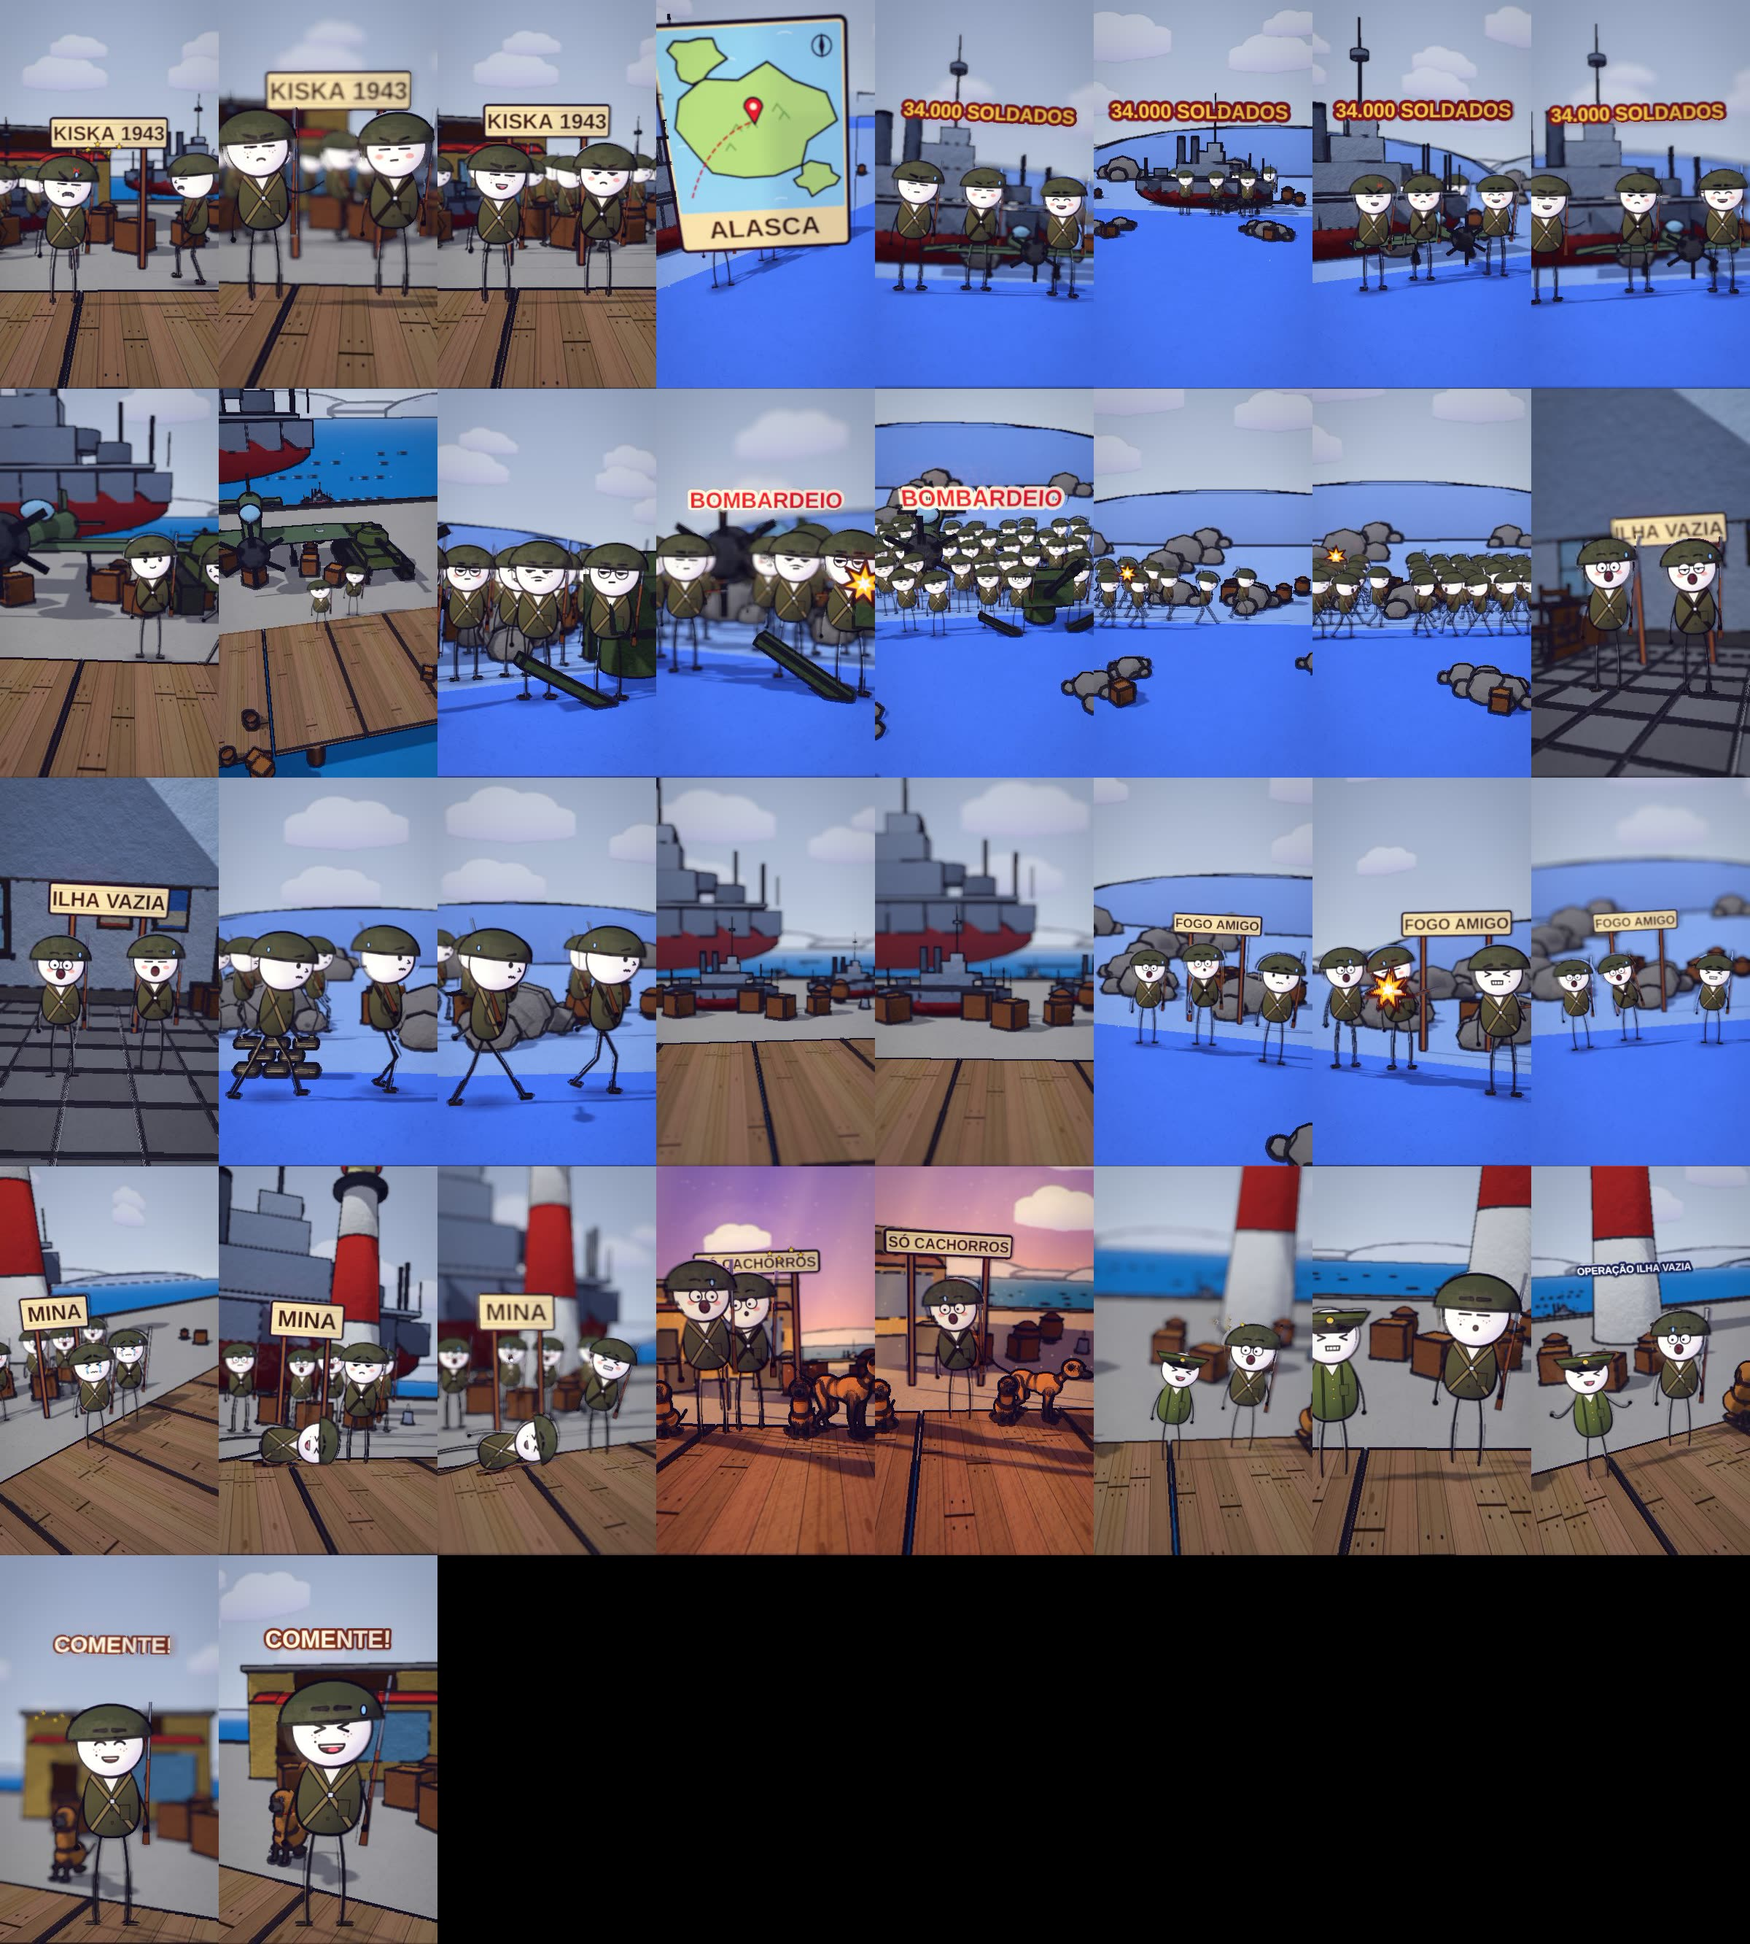
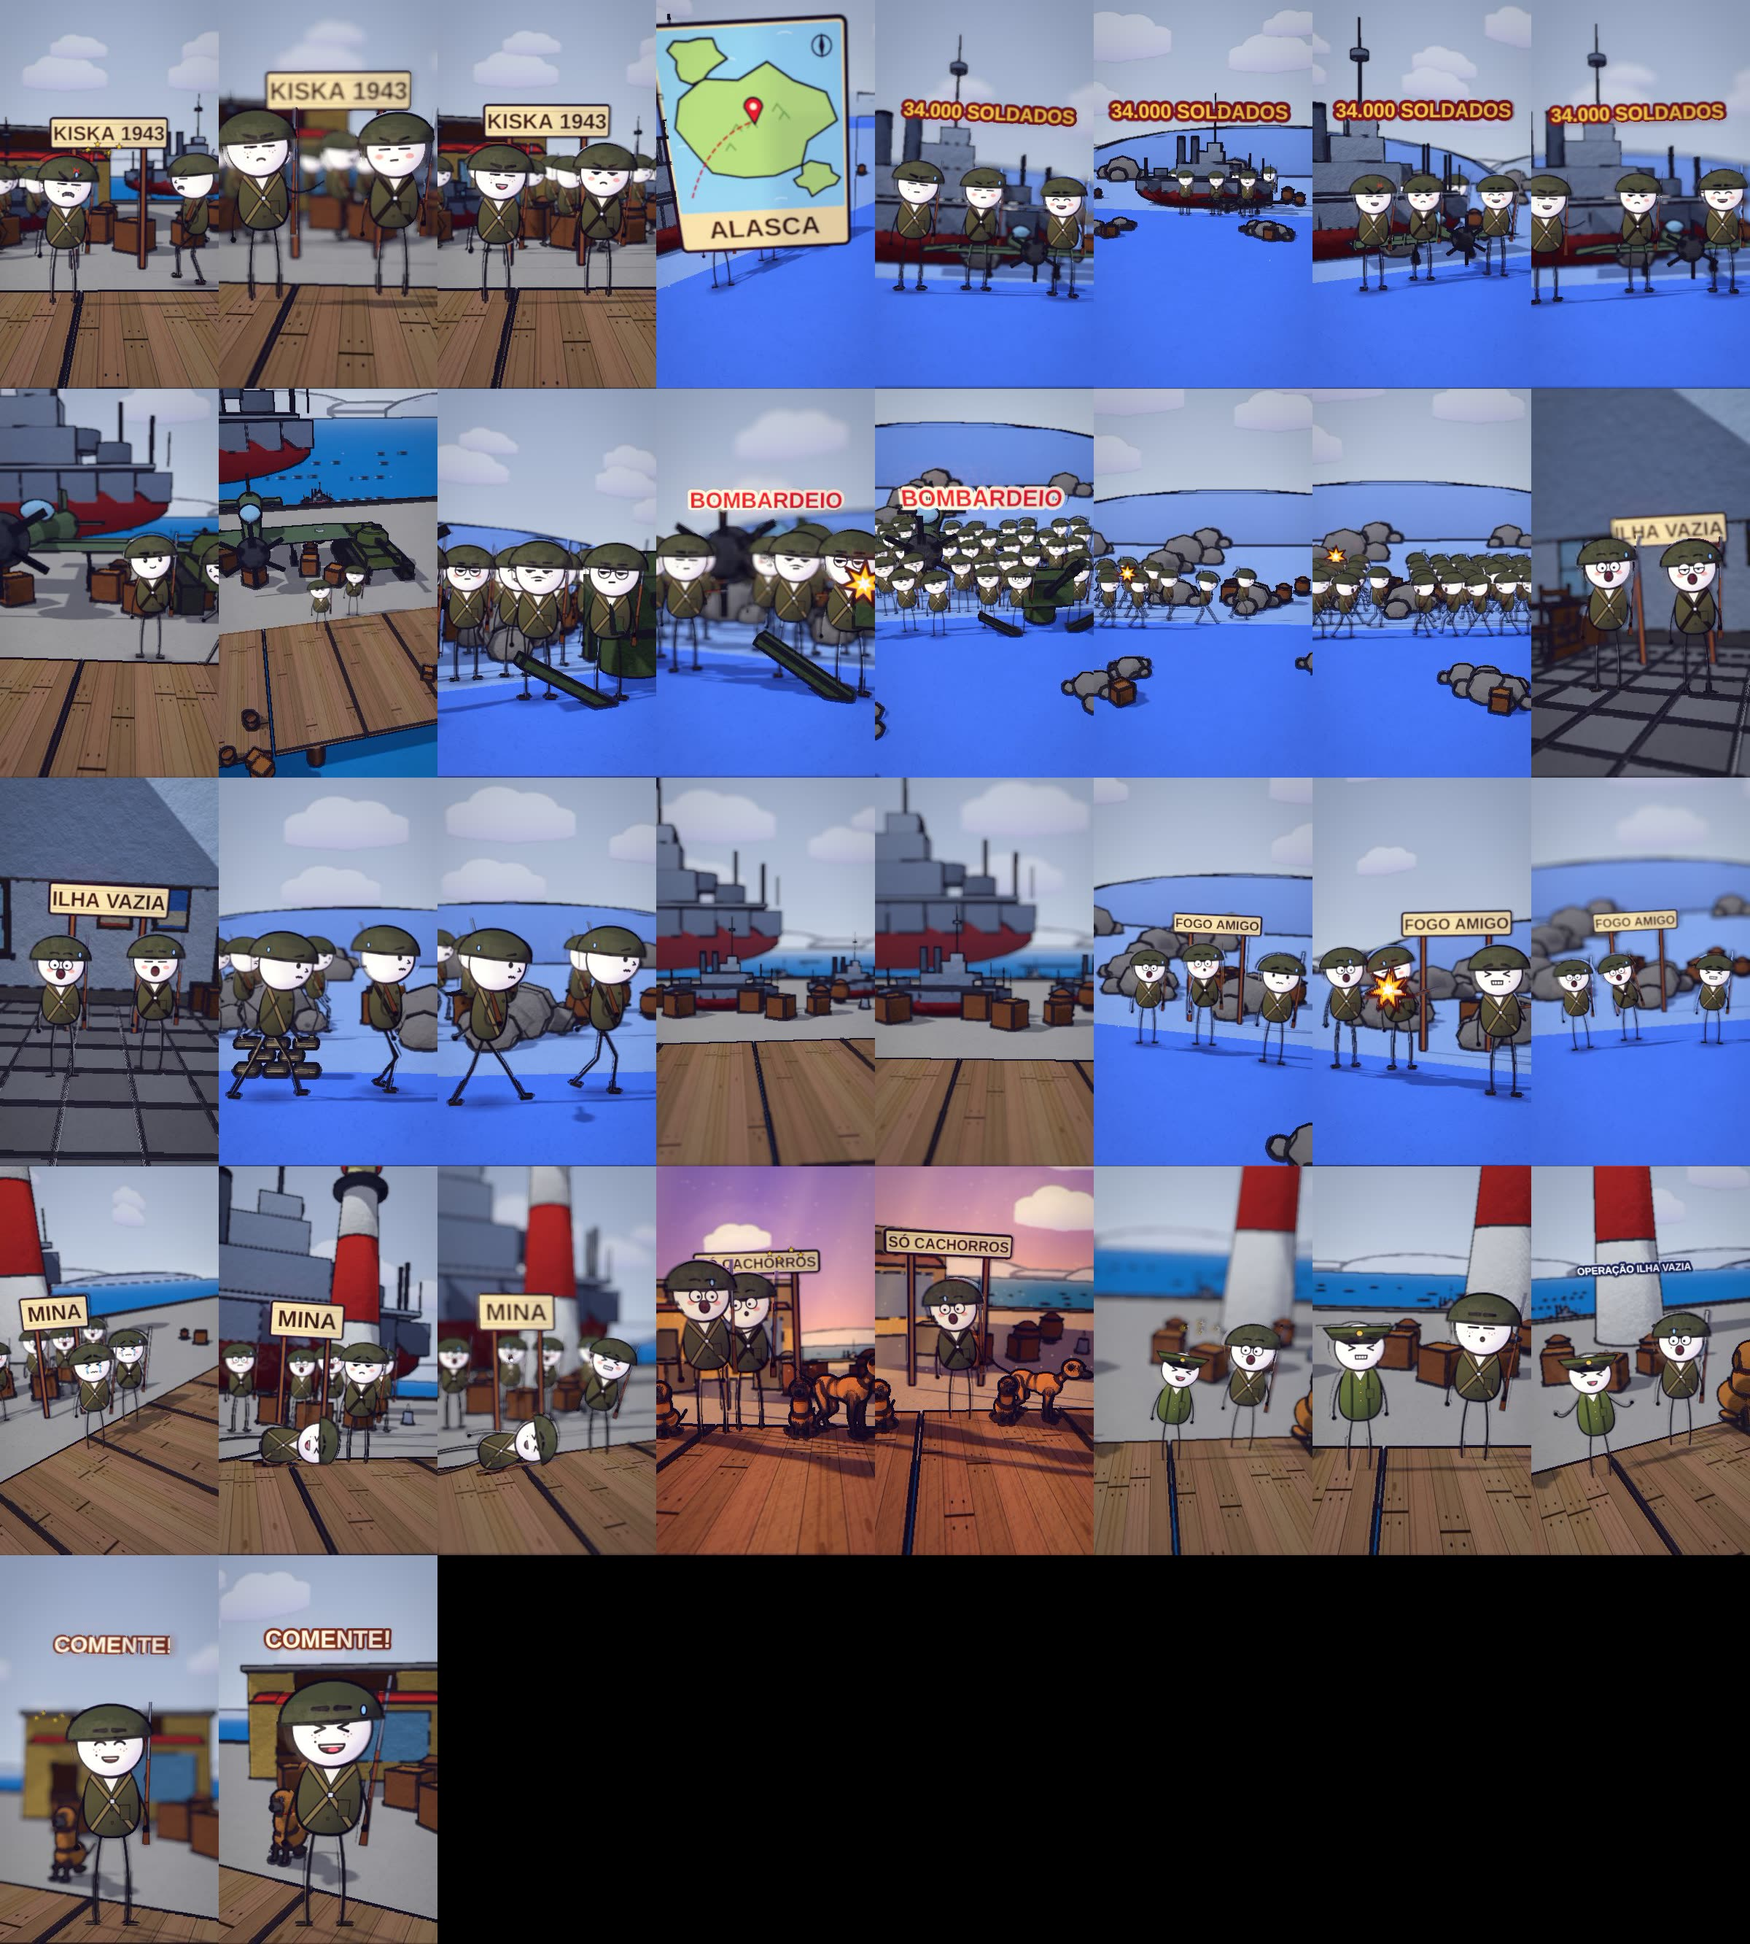
Bolos EP07 (B) v3 conferido e entregue
Claude-Session: https://claude.ai/code/session_01HE8Dy3UcXXZZMLa7uzjNJD

Changed region(s): [[0.7188, 0.5917, 1.0, 0.8098]]

diff --git a/ferramenta-shorts/stories/kiska1943/spec.js b/ferramenta-shorts/stories/kiska1943/spec.js
@@ -23,7 +23,7 @@ const SPEC = {
     S('b8', A[8], A[9] - 1, X_arctic, "overcast", { h: 2.5, d0: 12.882, d1: 11.526, az0: 24, az1: 10, wx: {"fog": 0.7, "wind": 0.3}, punches: [{ f: WS(106), amt: 0.16, dur: 20 }], vary: false, hero: { hero: 'any', frame: 'medium', minH: 0.07, main: 3 }, trans: 'dissolve', shots: [WS(106), WS(106)], actors: [pp(X_arctic, "USA", 0, -2.1, 1.3, "shock", { pose: 'react', inter: { k: 'lunge', a: Math.round(A[8] + (A[9] - 1 - (A[8])) * 0.12), b: Math.round(A[8] + (A[9] - 1 - (A[8])) * 0.82), dir: 1, n: 2, ph: 0 } }), pp(X_arctic, "CAN", 0, 0.0, 1.0, "shock", { pose: 'react', inter: { k: 'lunge', a: Math.round(A[8] + (A[9] - 1 - (A[8])) * 0.2), b: Math.round(A[8] + (A[9] - 1 - (A[8])) * 0.9), dir: -1, n: 2, ph: 3.14 } }), pp(X_arctic, "USA", 2, 2.1, 1.6, "pained", { pose: 'talk' })], fx: [{ k: 'text', a: A[8], b: A[9] - 1, at: [X_arctic + 0.0, DK, -1.3], text: "FOGO AMIGO", s: 2.625, col: '#3a2416', size: 120, board: true }, { k: 'burst', a: A[8] + 30, at: [X_arctic + -2.1, DK + 1.8, 3.2], s: 1.2 }, { k: 'burst', a: A[8] + 60, at: [X_arctic + -2.1, DK + 1.8, 3.2], s: 1.2 }, { k: 'flash', a: WS(106), b: WS(106) + 8, at: [X_arctic + -0.55, DK - 0.55, 1.7], s: 1.6 }, { k: 'puff', a: WS(106) + 3, b: WS(106) + 24, at: [X_arctic + -0.3, DK + 1.9, 1.7], s: 0.5 }, { k: 'flash', a: WS(106), b: WS(106) + 10, at: [X_arctic + -0.55, DK - 0.55, 1.7], s: 1.6 }] }),
     S('b9', A[9], A[10] - 1, X_harbor, "overcast", { h: 2.5, d0: 11.4, d1: 10.2, az0: -32, az1: -18, cx: 0.0, cz: 1.2, punches: [{ f: WS(121), amt: 0.16, dur: 20 }, { f: WS(127), amt: 0.11, dur: 20 }], vary: false, hero: { hero: 'any', frame: 'medium', minH: 0.07, main: 2 }, trans: 'dissolve', shots: [WS(121)], actors: [_MA(_MA(pp(X_harbor, "USA", 0, -1.0, 1.3, "sad", { pose: 'talk', inter: { k: 'shove', a: Math.round(A[9] + (A[10] - 1 - (A[9])) * 0.12), b: Math.round(A[9] + (A[10] - 1 - (A[9])) * 0.82), dir: 1, n: 2, ph: 0 } }), { gests: [[WS(127) - 8, WS(127) + 46, 'punch']] }), { poses: [[WS(119) + 2, A[10] - 1, 'fall']] }), pp(X_harbor, "CAN", 0, 1.0, 1.0, "sad", { pose: 'talk', inter: { k: 'stagger', a: Math.round(A[9] + (A[10] - 1 - (A[9])) * 0.2), b: Math.round(A[9] + (A[10] - 1 - (A[9])) * 0.9), dir: -1, n: 2, ph: 3.14 } }), pp(X_harbor, "USA", 0, -3.85, -3.36, "shock", { look: -0.25, seed: 0 }), pp(X_harbor, "CAN", 1, -1.79, -2.88, "shock", { look: 0.25, seed: 1 }), pp(X_harbor, "USA", 2, 0.27, -3.24, "shock", { look: 0.0, seed: 2 }), pp(X_harbor, "CAN", 3, 1.34, -2.76, "shock", { look: 0.15, seed: 3 }), pp(X_harbor, "USA", 4, 3.4, -3.12, "shock", { look: -0.25, seed: 0 })], props: [{ asset: "buildings/lighthouse", at: [X_harbor + 4.8, -11.0], s: 1.05, ry: -0.35, drop: false }, { asset: "kit/navio_encouracado", at: [X_harbor + -3.0, -24.0], s: 8.44, drop: false }], fx: [{ k: 'text', a: A[9], b: A[10] - 1, at: [X_harbor + 0.0, DK, -1.3], text: "MINA", s: 2.625, col: '#3a2416', size: 120, board: true }, { k: 'burst', a: A[9] + 126, at: [X_harbor + -1.0, DK + 1.8, 3.2], s: 1.2 }, { k: "puff", a: WS(119), b: WS(119) + 28, at: [X_harbor + -2.95, DK + 0.12, -3.16], s: 0.7 }, { k: 'burst', a: WS(121), b: WS(121) + 22, at: [X_harbor + -3.85, DK + 1.8, -1.86], s: 1.2 }, { k: "dust", a: WS(127), b: WS(127) + 28, at: [X_harbor + -2.95, DK + 0.12, -3.16], s: 0.7 }, { k: 'dust', a: WS(119) + 4, b: WS(119) + 30, at: [X_harbor + -0.4, DK + 0.1, 1.6], s: 0.8 }, { k: 'flash', a: WS(121), b: WS(121) + 10, at: [X_harbor + 0.55, DK - 0.55, 1.7], s: 1.6 }, { k: "burst", a: WS(127) + 3, b: WS(127) + 30, at: [X_harbor + -1.0, DK + 1.6, 1.7], s: 0.6 }] }),
     S('b10', A[10], A[11] - 1, X_harbor, "arctic", { h: 1.4, d0: 8.0, d1: 6.0, el: 8, az0: -6, az1: 8, wx: {"fog": 0.7, "wind": 0.3}, vary: false, hero: { hero: 'any', frame: 'medium', minH: 0.07, main: 2 }, trans: 'dissolve', actors: [_MA(_MA(pp(X_harbor, "USA", 1, -1.0, 1.3, "surprised", { pose: 'talk', inter: { k: 'nod', a: Math.round(A[10] + (A[11] - 1 - (A[10])) * 0.12), b: Math.round(A[10] + (A[11] - 1 - (A[10])) * 0.82), dir: 1, n: 2, ph: 0 } }), { gests: [[WS(133) - 8, Math.max(WS(133) + 14, WS(138) - 5), 'point']] }), { move: [[X_harbor + -10.0, 0.7], WS(138) + 2, WS(138) + 70, 'lin'], walk: 'stroll' }), pp(X_harbor, "CAN", 0, 1.0, 1.0, "surprised", { pose: 'talk', inter: { k: 'lean', a: Math.round(A[10] + (A[11] - 1 - (A[10])) * 0.2), b: Math.round(A[10] + (A[11] - 1 - (A[10])) * 0.9), dir: -1, n: 2, ph: 3.14 } }), { animal: "dog", at: [X_harbor + 1.9, 0.8], state: "stand", s: 1.0, flip: true, seed: 1 }], props: [{ asset: "buildings/shop", at: [X_harbor + -4.8, -11.0], s: 1.05, ry: 0.35, drop: false }, { asset: "kit/dog_sit", at: [X_harbor + 1.2, 1.0], s: 1.0, fixo: true, drop: false }, { asset: "kit/dog_sit", at: [X_harbor + -1.4, 1.2], s: 1.0, fixo: true, drop: false }], fx: [{ k: 'stars', a: A[10] + 6, b: A[10] + 40, at: [X_harbor + 1.2, DK + 1.6, 1.5], s: 0.8 }, { k: 'text', a: A[10], b: A[11] - 1, at: [X_harbor + 0.0, DK, -1.3], text: "SÓ CACHORROS", s: 2.625, col: '#3a2416', size: 120, board: true }] }),
-    S('b11', A[11], Math.round(A[11] + (A[12] - 1 + 1 - (A[11])) * 0.36) - 1, X_harbor, "overcast", { h: 2.3, d0: 9.8, d1: 8.8, az0: -26, az1: -12, hero: { hero: 'any', frame: 'medium', minH: 0.07, main: 2 }, trans: 'dissolve', actors: [pp(X_harbor, "OFF", 0, -1.0, 1.3, "pained", { pose: 'talk', inter: { k: 'lunge', a: Math.round(A[11] + (A[12] - 1 - (A[11])) * 0.12), b: Math.round(A[11] + (A[12] - 1 - (A[11])) * 0.82), dir: 1, n: 2, ph: 0 } }), pp(X_harbor, "USA", 0, 1.0, 1.0, "surprised", { pose: 'talk', inter: { k: 'nod', a: Math.round(A[11] + (A[12] - 1 - (A[11])) * 0.2), b: Math.round(A[11] + (A[12] - 1 - (A[11])) * 0.9), dir: -1, n: 2, ph: 3.14 } })], props: [{ asset: "buildings/lighthouse", at: [X_harbor + 4.8, -11.0], s: 1.05, ry: -0.35, drop: false }, { asset: "kit/dog_sit", at: [X_harbor + 3.0, 0.6], s: 1.5, drop: false }, { asset: "kit/dog_sit", at: [X_harbor + -3.0, 0.6], s: 1.2, drop: false }], fx: [{ k: 'stars', a: A[11] + 6, b: A[11] + 40, at: [X_harbor + 0.6, DK + 1.6, 1.5], s: 0.8 }, txt(X_harbor, WS(150, -2), A[12] - 1, "OPERAÇÃO ILHA VAZIA", '#ffffff', '#1c2a4a', 4.5, { s: 1.5, up: 0.46 })] }), { ...S('b11_d', Math.round(A[11] + (A[12] - 1 + 1 - (A[11])) * 0.36), Math.round(A[11] + (A[12] - 1 + 1 - (A[11])) * 0.6) - 1, X_harbor, "overcast", { h: 2.3, d0: 9.8, d1: 8.8, az0: -26, az1: -12, hero: { hero: 'none', detalhe: true }, trans: 'cut', actors: [pp(X_harbor, "OFF", 0, -1.0, 1.3, "pained", { pose: 'stand' }), pp(X_harbor, "USA", 0, 1.0, 1.0, "surprised", { pose: 'stand' })], props: [{ asset: "buildings/lighthouse", at: [X_harbor + 4.8, -11.0], s: 1.05, drop: false, ry: -0.35, drop: false }, { asset: "kit/dog_sit", at: [X_harbor + 3.0, 0.6], s: 1.5, drop: false }, { asset: "kit/dog_sit", at: [X_harbor + -3.0, 0.6], s: 1.2, drop: false }], fx: [{ k: 'stars', a: A[11] + 6, b: A[11] + 40, at: [X_harbor + 0.6, DK + 1.6, 1.5], s: 0.8 }, txt(X_harbor, WS(150, -2), A[12] - 1, "OPERAÇÃO ILHA VAZIA", '#ffffff', '#1c2a4a', 4.5, { s: 1.5, up: 0.46 })] }), cam: [{ f: Math.round(A[11] + (A[12] - 1 + 1 - (A[11])) * 0.36), at: [X_harbor + 0.6, DK + 1.125, 1.0], d: 4.2, az: -14, el: 10, fov: 44 }, { f: Math.round(A[11] + (A[12] - 1 + 1 - (A[11])) * 0.6) - 1, at: [X_harbor + 0.6, DK + 1.125, 1.0], d: 3.4, az: -8, el: 9, fov: 44 }], nocut: true, vary: false, glide: true, glideN: 34 }, { ...S('b11_v', Math.round(A[11] + (A[12] - 1 + 1 - (A[11])) * 0.6), A[12] - 1, X_harbor, "overcast", { h: 2.3, d0: 9.8, d1: 8.8, az0: -26, az1: -12, hero: { hero: 'any', frame: 'medium', minH: 0.07, main: 2 }, trans: 'cut', actors: [pp(X_harbor, "OFF", 0, -1.0, 1.3, "pained", { pose: 'talk', inter: { k: 'lunge', a: Math.round(A[11] + (A[12] - 1 - (A[11])) * 0.12), b: Math.round(A[11] + (A[12] - 1 - (A[11])) * 0.82), dir: 1, n: 2, ph: 0 } }), pp(X_harbor, "USA", 0, 1.0, 1.0, "surprised", { pose: 'talk', inter: { k: 'nod', a: Math.round(A[11] + (A[12] - 1 - (A[11])) * 0.2), b: Math.round(A[11] + (A[12] - 1 - (A[11])) * 0.9), dir: -1, n: 2, ph: 3.14 } })], props: [{ asset: "buildings/lighthouse", at: [X_harbor + 4.8, -11.0], s: 1.05, drop: false, ry: -0.35, drop: false }, { asset: "kit/dog_sit", at: [X_harbor + 3.0, 0.6], s: 1.5, drop: false }, { asset: "kit/dog_sit", at: [X_harbor + -3.0, 0.6], s: 1.2, drop: false }], fx: [{ k: 'stars', a: A[11] + 6, b: A[11] + 40, at: [X_harbor + 0.6, DK + 1.6, 1.5], s: 0.8 }, txt(X_harbor, WS(150, -2), A[12] - 1, "OPERAÇÃO ILHA VAZIA", '#ffffff', '#1c2a4a', 4.5, { s: 1.5, up: 0.46 })] }), glide: true, glideN: 34 },
+    S('b11', A[11], Math.round(A[11] + (A[12] - 1 + 1 - (A[11])) * 0.36) - 1, X_harbor, "overcast", { h: 2.3, d0: 9.8, d1: 8.8, az0: -26, az1: -12, hero: { hero: 'any', frame: 'medium', minH: 0.07, main: 2 }, trans: 'dissolve', actors: [pp(X_harbor, "OFF", 0, -1.0, 1.3, "pained", { pose: 'talk', inter: { k: 'lunge', a: Math.round(A[11] + (A[12] - 1 - (A[11])) * 0.12), b: Math.round(A[11] + (A[12] - 1 - (A[11])) * 0.82), dir: 1, n: 2, ph: 0 } }), pp(X_harbor, "USA", 0, 1.0, 1.0, "surprised", { pose: 'talk', inter: { k: 'nod', a: Math.round(A[11] + (A[12] - 1 - (A[11])) * 0.2), b: Math.round(A[11] + (A[12] - 1 - (A[11])) * 0.9), dir: -1, n: 2, ph: 3.14 } })], props: [{ asset: "buildings/lighthouse", at: [X_harbor + 4.8, -11.0], s: 1.05, ry: -0.35, drop: false }, { asset: "kit/dog_sit", at: [X_harbor + 3.0, 0.6], s: 2.0, drop: false }, { asset: "kit/dog_sit", at: [X_harbor + -3.0, 0.6], s: 1.2, drop: false }], fx: [{ k: 'stars', a: A[11] + 6, b: A[11] + 40, at: [X_harbor + 0.0, DK + 1.6, 1.9], s: 0.8 }, txt(X_harbor, WS(150, -2), A[12] - 1, "OPERAÇÃO ILHA VAZIA", '#ffffff', '#1c2a4a', 4.5, { s: 1.5, up: 0.46 })] }), { ...S('b11_d', Math.round(A[11] + (A[12] - 1 + 1 - (A[11])) * 0.36), Math.round(A[11] + (A[12] - 1 + 1 - (A[11])) * 0.6) - 1, X_harbor, "overcast", { h: 2.3, d0: 9.8, d1: 8.8, az0: -26, az1: -12, hero: { hero: 'none', detalhe: true }, trans: 'cut', actors: [pp(X_harbor, "OFF", 0, -1.0, 1.3, "pained", { pose: 'stand' }), pp(X_harbor, "USA", 0, 1.0, 1.0, "surprised", { pose: 'stand' })], props: [{ asset: "buildings/lighthouse", at: [X_harbor + 4.8, -11.0], s: 1.05, drop: false, ry: -0.35, drop: false }, { asset: "kit/dog_sit", at: [X_harbor + 3.0, 0.6], s: 2.0, drop: false }, { asset: "kit/dog_sit", at: [X_harbor + -3.0, 0.6], s: 1.2, drop: false }], fx: [{ k: 'stars', a: A[11] + 6, b: A[11] + 40, at: [X_harbor + 0.0, DK + 1.6, 1.9], s: 0.8 }, txt(X_harbor, WS(150, -2), A[12] - 1, "OPERAÇÃO ILHA VAZIA", '#ffffff', '#1c2a4a', 4.5, { s: 1.5, up: 0.46 })] }), cam: [{ f: Math.round(A[11] + (A[12] - 1 + 1 - (A[11])) * 0.36), at: [X_harbor + 0.0, DK + 1.5, 1.4], d: 6.03, az: -14, el: 7, fov: 44 }, { f: Math.round(A[11] + (A[12] - 1 + 1 - (A[11])) * 0.6) - 1, at: [X_harbor + 0.0, DK + 1.5, 1.4], d: 5.33, az: -8, el: 6, fov: 44 }], nocut: true, vary: false, glide: true, glideN: 34 }, { ...S('b11_v', Math.round(A[11] + (A[12] - 1 + 1 - (A[11])) * 0.6), A[12] - 1, X_harbor, "overcast", { h: 2.3, d0: 9.8, d1: 8.8, az0: -26, az1: -12, hero: { hero: 'any', frame: 'medium', minH: 0.07, main: 2 }, trans: 'cut', actors: [pp(X_harbor, "OFF", 0, -1.0, 1.3, "pained", { pose: 'talk', inter: { k: 'lunge', a: Math.round(A[11] + (A[12] - 1 - (A[11])) * 0.12), b: Math.round(A[11] + (A[12] - 1 - (A[11])) * 0.82), dir: 1, n: 2, ph: 0 } }), pp(X_harbor, "USA", 0, 1.0, 1.0, "surprised", { pose: 'talk', inter: { k: 'nod', a: Math.round(A[11] + (A[12] - 1 - (A[11])) * 0.2), b: Math.round(A[11] + (A[12] - 1 - (A[11])) * 0.9), dir: -1, n: 2, ph: 3.14 } })], props: [{ asset: "buildings/lighthouse", at: [X_harbor + 4.8, -11.0], s: 1.05, drop: false, ry: -0.35, drop: false }, { asset: "kit/dog_sit", at: [X_harbor + 3.0, 0.6], s: 2.0, drop: false }, { asset: "kit/dog_sit", at: [X_harbor + -3.0, 0.6], s: 1.2, drop: false }], fx: [{ k: 'stars', a: A[11] + 6, b: A[11] + 40, at: [X_harbor + 0.0, DK + 1.6, 1.9], s: 0.8 }, txt(X_harbor, WS(150, -2), A[12] - 1, "OPERAÇÃO ILHA VAZIA", '#ffffff', '#1c2a4a', 4.5, { s: 1.5, up: 0.46 })] }), glide: true, glideN: 34 },
     S('b12', A[12], A[13] - 1, X_harbor, "overcast", { h: 2.4, d0: 6.4, d1: 5.6, az0: 16, az1: 30, hero: { hero: 'any', frame: 'medium', minH: 0.07, main: 1 }, trans: 'dissolve', actors: [pp(X_harbor, "USA", 0, 0.0, 1.3, "grin", { pose: 'talk' })], props: [{ asset: "buildings/shop", at: [X_harbor + -4.8, -11.0], s: 1.05, ry: 0.35, drop: false }, { asset: "kit/dog_sit", at: [X_harbor + -1.7, -0.5], s: 1.3, drop: false }], fx: [{ k: 'stars', a: A[12] + 6, b: A[12] + 40, at: [X_harbor + -1.7, DK + 1.6, 0.0], s: 0.8 }, txt(X_harbor, WS(151, -2), A[13] - 1, "COMENTE!", '#fff6e0', '#7a3a1c', 4.6, { s: 1.5, up: 0.55 })] })
   ],
 };

diff --git a/ferramenta-shorts/stories/kiska1943/autocorrecoes.md b/ferramenta-shorts/stories/kiska1943/autocorrecoes.md
@@ -27,3 +27,7 @@
 ## 24/11 13:51 autocorrecao de visibilidade
 - b3: ja corrigida 3 vezes, personagem CORTADO na borda do quadro (boneco grande saindo da tela) -> fica para o olho
 - b11: objeto citado "kit/dog_sit" nao aparece na tela (escondido, fora do quadro ou pequeno demais) -> objeto na frente dos personagens e maior
+
+## 24/11 13:52 autocorrecao de visibilidade
+- b3: ja corrigida 3 vezes, personagem CORTADO na borda do quadro (boneco grande saindo da tela) -> fica para o olho
+- b11: objeto citado "kit/dog_sit" nao aparece na tela (escondido, fora do quadro ou pequeno demais) -> close no objeto

diff --git a/ferramenta-shorts/stories/kiska1943/cronograma.md b/ferramenta-shorts/stories/kiska1943/cronograma.md
@@ -1,6 +1,6 @@
 # CRONOGRAMA - Guerras Inusitadas EP 21 - A Invasão da Ilha Vazia
 
-Gerado em 24/11 13:51 | 13 cenas | metricas: acoes_encenadas 100%, acoes_chave_com_efeito 100%, explicacoes_cobertas 100%, cenario_e_epoca_ok 100%
+Gerado em 24/11 13:52 | 13 cenas | metricas: acoes_encenadas 100%, acoes_chave_com_efeito 100%, explicacoes_cobertas 100%, cenario_e_epoca_ok 100%
 
 ## 1. Plano de cenas (o que cada frase vai mostrar)
 
